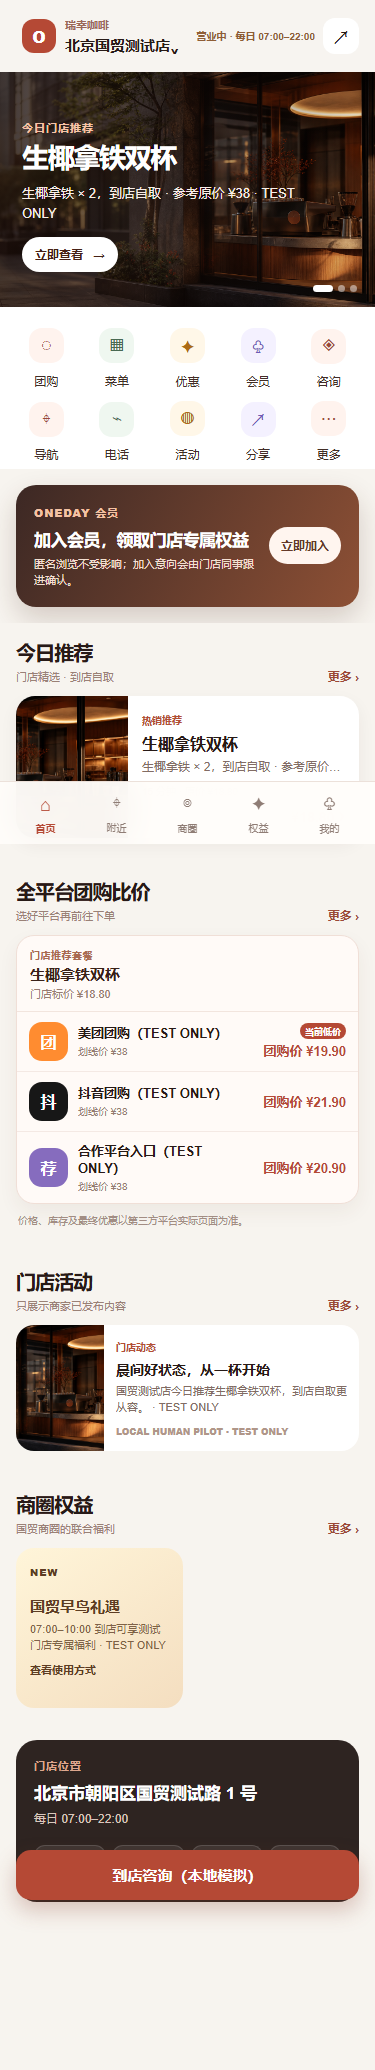
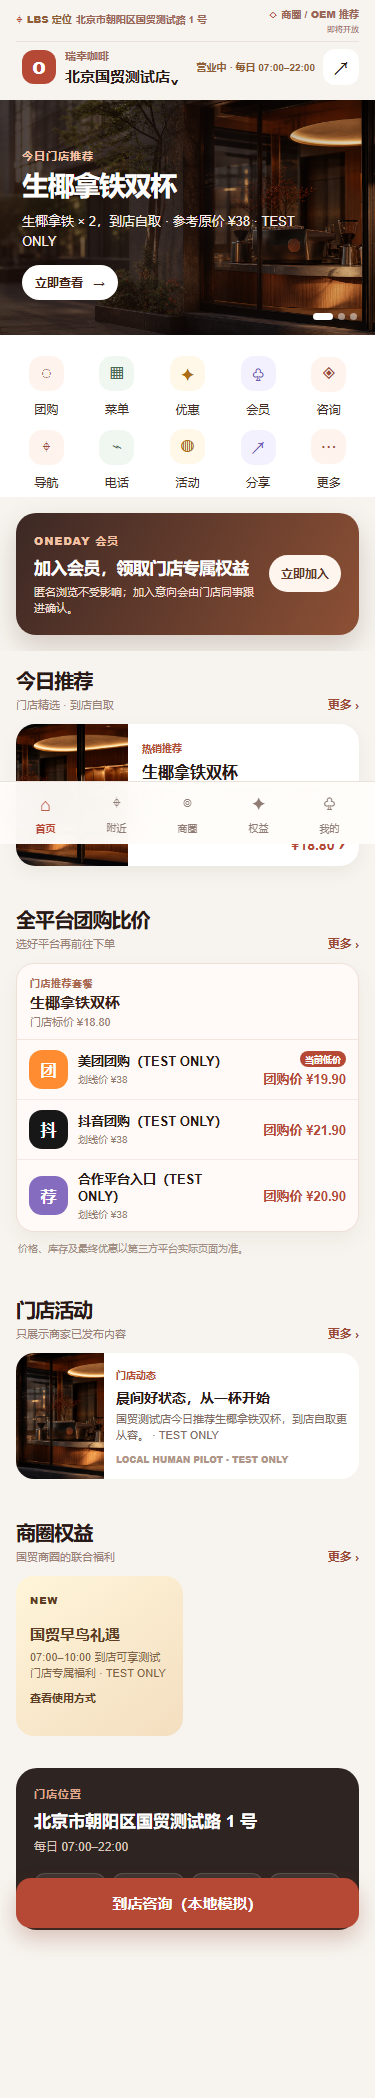
feat(consumer): refine storefront header layout

diff --git a/apps/consumer-web/app/c/stores/[id]/store.module.css b/apps/consumer-web/app/c/stores/[id]/store.module.css
@@ -13,11 +13,77 @@
 .topbar {
   display: grid;
   grid-template-columns: minmax(0, 1fr) auto 36px;
+  grid-template-rows: 30px minmax(42px, auto);
   gap: 8px;
   align-items: center;
-  min-height: 72px;
-  padding: 12px 16px;
+  min-height: 100px;
+  padding: 8px 16px 12px;
   background: rgba(247, 244, 239, 0.96);
+}
+.topMeta {
+  display: grid;
+  grid-column: 1 / -1;
+  grid-template-columns: minmax(0, 1fr) auto;
+  gap: 8px;
+  align-items: center;
+  min-width: 0;
+  padding-bottom: 7px;
+  border-bottom: 1px solid #ece1da;
+}
+.lbsButton {
+  display: grid;
+  grid-template-columns: auto auto minmax(0, 1fr);
+  gap: 4px;
+  align-items: center;
+  min-width: 0;
+  border: 0;
+  padding: 0;
+  color: #9a6757;
+  background: transparent;
+  font: inherit;
+  text-align: left;
+}
+.lbsButton:disabled {
+  opacity: 0.55;
+}
+.lbsButton i,
+.futureRecommend i {
+  color: #b54935;
+  font-size: 14px;
+  font-style: normal;
+}
+.lbsButton span {
+  color: #8f5d36;
+  font-size: 10px;
+  font-weight: 800;
+}
+.lbsButton b {
+  overflow: hidden;
+  color: #9a6757;
+  font-size: 10px;
+  font-weight: 600;
+  text-overflow: ellipsis;
+  white-space: nowrap;
+}
+.futureRecommend {
+  display: inline-grid;
+  grid-template-columns: auto auto;
+  column-gap: 4px;
+  align-items: center;
+  justify-items: end;
+  min-width: 0;
+  color: #9a6757;
+}
+.futureRecommend > span {
+  font-size: 10px;
+  font-weight: 800;
+  white-space: nowrap;
+}
+.futureRecommend small {
+  grid-column: 2;
+  color: #9a6757;
+  font-size: 8px;
+  white-space: nowrap;
 }
 .storeButton,
 .shareButton {

diff --git a/apps/consumer-web/app/c/stores/[id]/store.tsx b/apps/consumer-web/app/c/stores/[id]/store.tsx
@@ -257,6 +257,23 @@ export default function StorePage({
       <div className={styles.shell}>
         <h1 className={styles.visuallyHidden}>{data.store.name}</h1>
         <header className={styles.topbar}>
+          <div className={styles.topMeta}>
+            <button
+              className={styles.lbsButton}
+              type="button"
+              onClick={openNavigation}
+              disabled={!navigationUrl}
+            >
+              <i>⌖</i>
+              <span>LBS 定位</span>
+              <b>{data.store.address ?? '定位当前门店'}</b>
+            </button>
+            <span className={styles.futureRecommend} aria-label="商圈或 OEM 品牌推荐，暂未开放">
+              <i>◇</i>
+              <span>商圈 / OEM 推荐</span>
+              <small>即将开放</small>
+            </span>
+          </div>
           <button
             className={styles.storeButton}
             type="button"

diff --git a/PROJECT_STATE/CURRENT_STATE.md b/PROJECT_STATE/CURRENT_STATE.md
@@ -13,7 +13,7 @@
 - blocker: null
 - known_observation: H-002 Playwright binds development servers to 127.0.0.1, avoiding the prior cross-origin development-resource warning during four-terminal local acceptance.
 - verified_h002: SessionApiClient is the protected E/M/P request boundary; 36 pages / 54 direct token reads removed; consumer public routes require an explicit tenant and do not default to system; 173 repository tests and 6 H-002 Playwright journeys passed.
-- next_scope: Product owner visual acceptance for `CONSUMER-COMMERCIAL-HOME-V1`. The Consumer storefront is available on the isolated local HUMAN-PILOT database with persisted package-platform prices (migration 047) and aligned service/action child pages; do not expand Employee, Management or Platform while this acceptance is pending.
+- next_scope: Product owner visual acceptance for `CONSUMER-COMMERCIAL-HOME-V1`. The Consumer storefront is available on the isolated local HUMAN-PILOT database with persisted package-platform prices (migration 047), an LBS/future-recommendation storefront header and aligned service/action child pages; do not expand Employee, Management or Platform while this acceptance is pending.
 - verified_pre_pilot_polish: PASS at 268464d. A-1/A-2/A-3, B-1/B-2/B-3 and D-1/D-3 are accepted in PROJECT_STATE/PRE_PILOT_POLISH_ACCEPTANCE.md; focused HTTP, updated browser, H-002, B2-B7, format, lint, 18-package typecheck/build, 184 repository tests and 74 evidence checks passed.
 - verified_audit_batch_2: PASS at 5c0ea50. Public consumer action, store consultation and service consultation atomically project one tenant-scoped operating trail. HTTP acceptance passed for concurrent/replayed idempotency, share-code employee ownership, employee follow-up/completion/evidence, management visibility, lead-pool fallback, cross-tenant denial and unauthenticated denial; 175 repository tests and all quality gates passed.
 - verified_audit_batch_3: Worker now consumes internal Outbox records with event-consumption de-duplication and retry diagnostics, and runs the shared reminder/overdue state machine. Isolated real Worker acceptance passed; 177 repository tests and static quality gates passed at 3998a7d.

diff --git a/PROJECT_STATE/LATEST_HANDOFF.md b/PROJECT_STATE/LATEST_HANDOFF.md
@@ -1,5 +1,10 @@
 # LATEST_HANDOFF
 
+## CONSUMER-COMMERCIAL-HOME-V1 — 2026-08-09 storefront-header follow-up
+
+- Only the storefront header was restyled: the upper row now has a tracked LBS-location action on the left and a non-interactive future “business circle / OEM recommendation” placeholder on the right. The existing colors, store identity/status/share row, Banner and all lower sections are unchanged.
+- Verified at 390px in `evidence/CONSUMER-COMMERCIAL-HOME-V1/storefront-top-layout-390.png`, plus Consumer typecheck and production build. Final status remains `AWAITING_PRODUCT_OWNER_UI_ACCEPTANCE`.
+
 ## CONSUMER-COMMERCIAL-HOME-V1 — 2026-08-08 follow-up, still awaiting product-owner acceptance
 
 - Migration `047_store_service_platform_offers` persists a package-to-active-platform-action offer price. The Guomao local TEST ONLY package currently displays Meituan `¥19.90`, Douyin `¥21.90`, and partner `¥20.90`, with a lowest-price marker; third-party pages remain the final authority for price, stock and promotions.

diff --git a/evidence/CONSUMER-COMMERCIAL-HOME-V1/ACCEPTANCE.md b/evidence/CONSUMER-COMMERCIAL-HOME-V1/ACCEPTANCE.md
@@ -32,6 +32,12 @@
 
 `http://127.0.0.1:3201/c/stores/30000000-0000-4000-8000-000000000021?tenant=luckin-oneday-human-pilot`
 
+## Storefront header layout follow-up (2026-08-09)
+
+- Updated only the top storefront introduction layout. The upper-left `LBS 定位` action uses the existing tracked navigation behavior and displays the persisted store address; the upper-right `商圈 / OEM 推荐` is an explicitly non-interactive future placeholder.
+- The existing warm palette, store title/status/share row, Banner and all lower modules remain unchanged. Visual evidence: `storefront-top-layout-390.png`.
+- Consumer typecheck and production build passed. Status remains `AWAITING_PRODUCT_OWNER_UI_ACCEPTANCE`.
+
 ## Follow-up — package/platform prices and Consumer visual alignment (2026-08-08)
 
 - Migration `047_store_service_platform_offers` persists the relationship between one recommended package, one active store platform action and its offer/market price; it is not derived from a link label.

diff --git a/PROJECT_STATE/TASK_QUEUE.md b/PROJECT_STATE/TASK_QUEUE.md
@@ -2,7 +2,7 @@
 
 ## Current product-owner acceptance
 
-- [ ] CONSUMER-COMMERCIAL-HOME-V1 AWAITING_PRODUCT_OWNER_UI_ACCEPTANCE - Consumer-only commercial storefront implemented and technically verified. Follow-up adds persisted package-to-platform comparison prices and aligns Consumer service/action child-page styling; final visual decision remains with the product owner. Evidence: `evidence/CONSUMER-COMMERCIAL-HOME-V1/ACCEPTANCE.md`.
+- [ ] CONSUMER-COMMERCIAL-HOME-V1 AWAITING_PRODUCT_OWNER_UI_ACCEPTANCE - Consumer-only commercial storefront implemented and technically verified. Follow-ups add persisted package-to-platform comparison prices, align Consumer service/action child-page styling, and restructure only the storefront header with LBS plus a future recommendation placeholder; final visual decision remains with the product owner. Evidence: `evidence/CONSUMER-COMMERCIAL-HOME-V1/ACCEPTANCE.md`.
 
 ## Audit hardening status (latest)
 

diff --git a/PROJECT_STATE/CHANGELOG.md b/PROJECT_STATE/CHANGELOG.md
@@ -1,5 +1,10 @@
 # CHANGELOG
 
+## 2026-08-09 — CONSUMER-COMMERCIAL-HOME-V1 storefront header layout
+
+- Reworked only the storefront introduction/header layout without changing its color system: LBS location is on the upper left and a non-interactive future “business circle / OEM recommendation” placeholder is on the upper right.
+- Retained the store title, business status, sharing action, banner and all lower storefront sections unchanged. Status remains `AWAITING_PRODUCT_OWNER_UI_ACCEPTANCE`.
+
 ## 2026-08-08 — CONSUMER-COMMERCIAL-HOME-V1 follow-up
 
 - Added migration 047 and local TEST ONLY package/platform prices so the storefront directly displays Meituan, Douyin and partner group-buy prices for the same recommended package.
